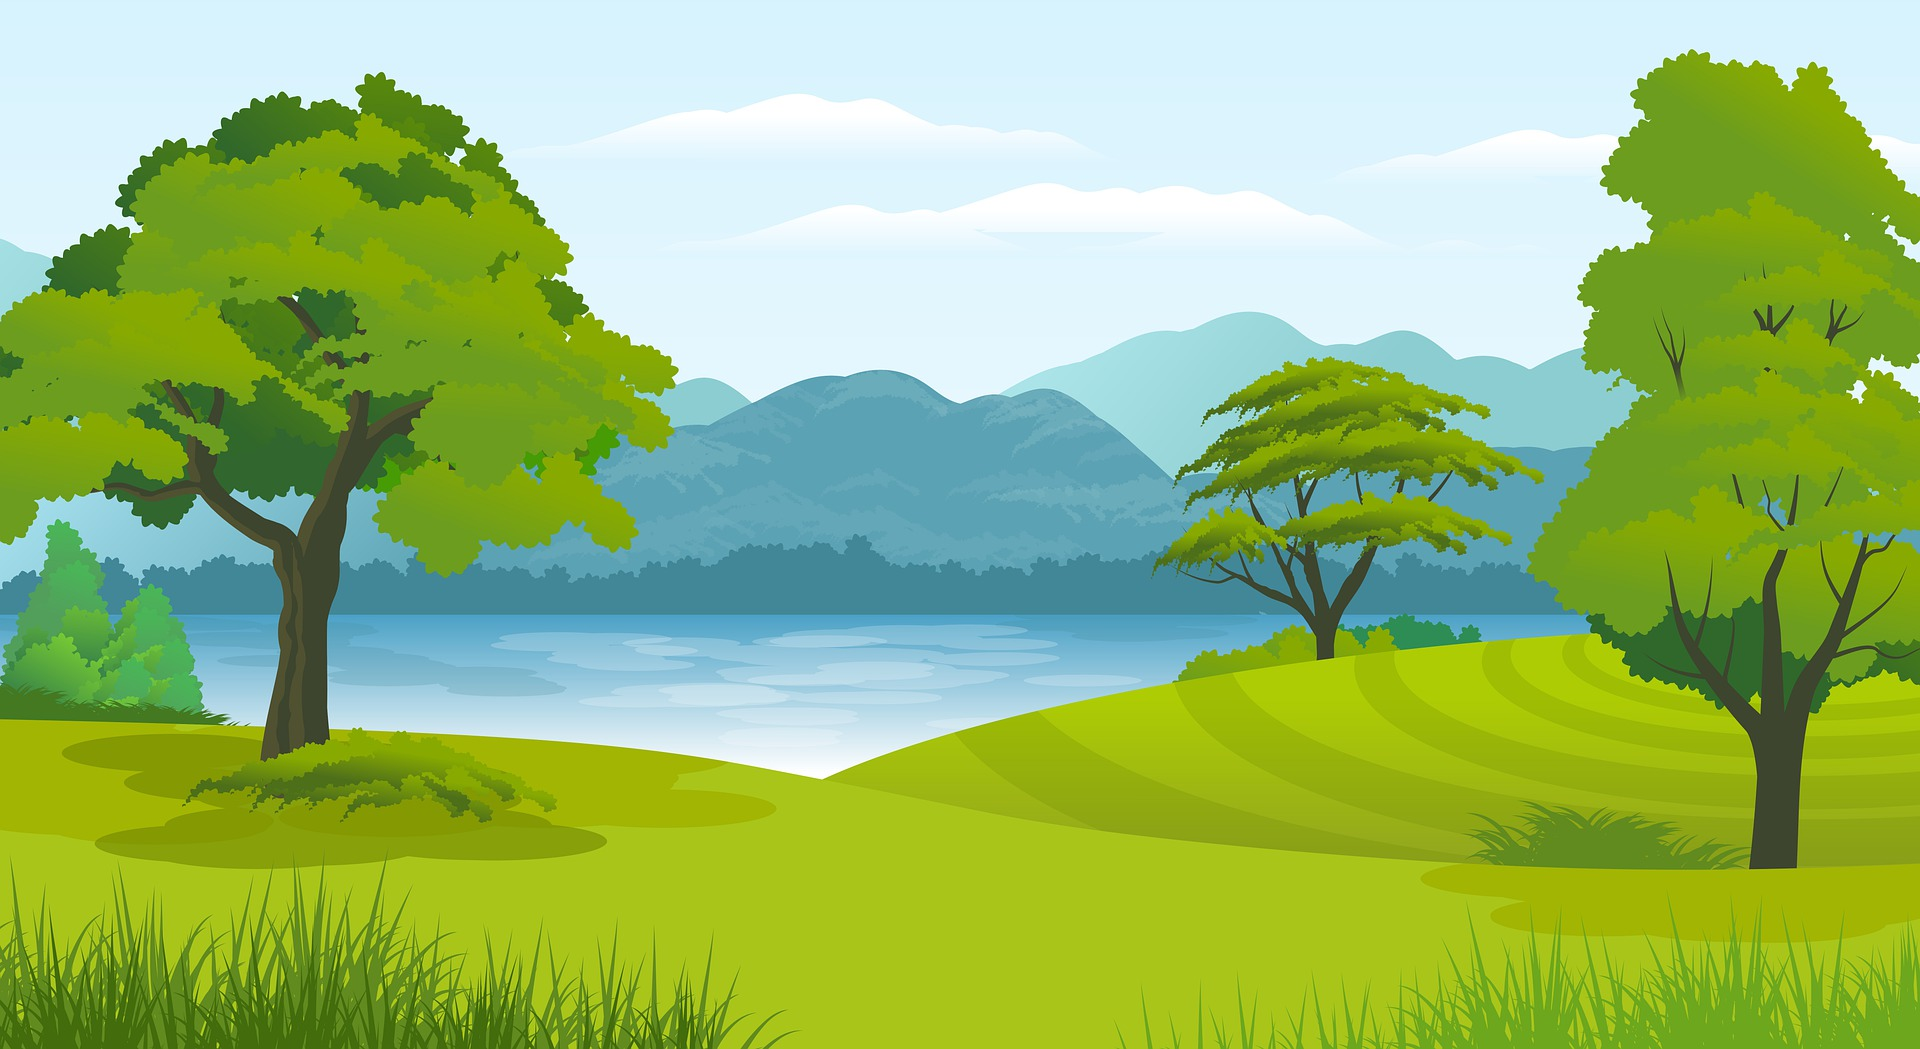
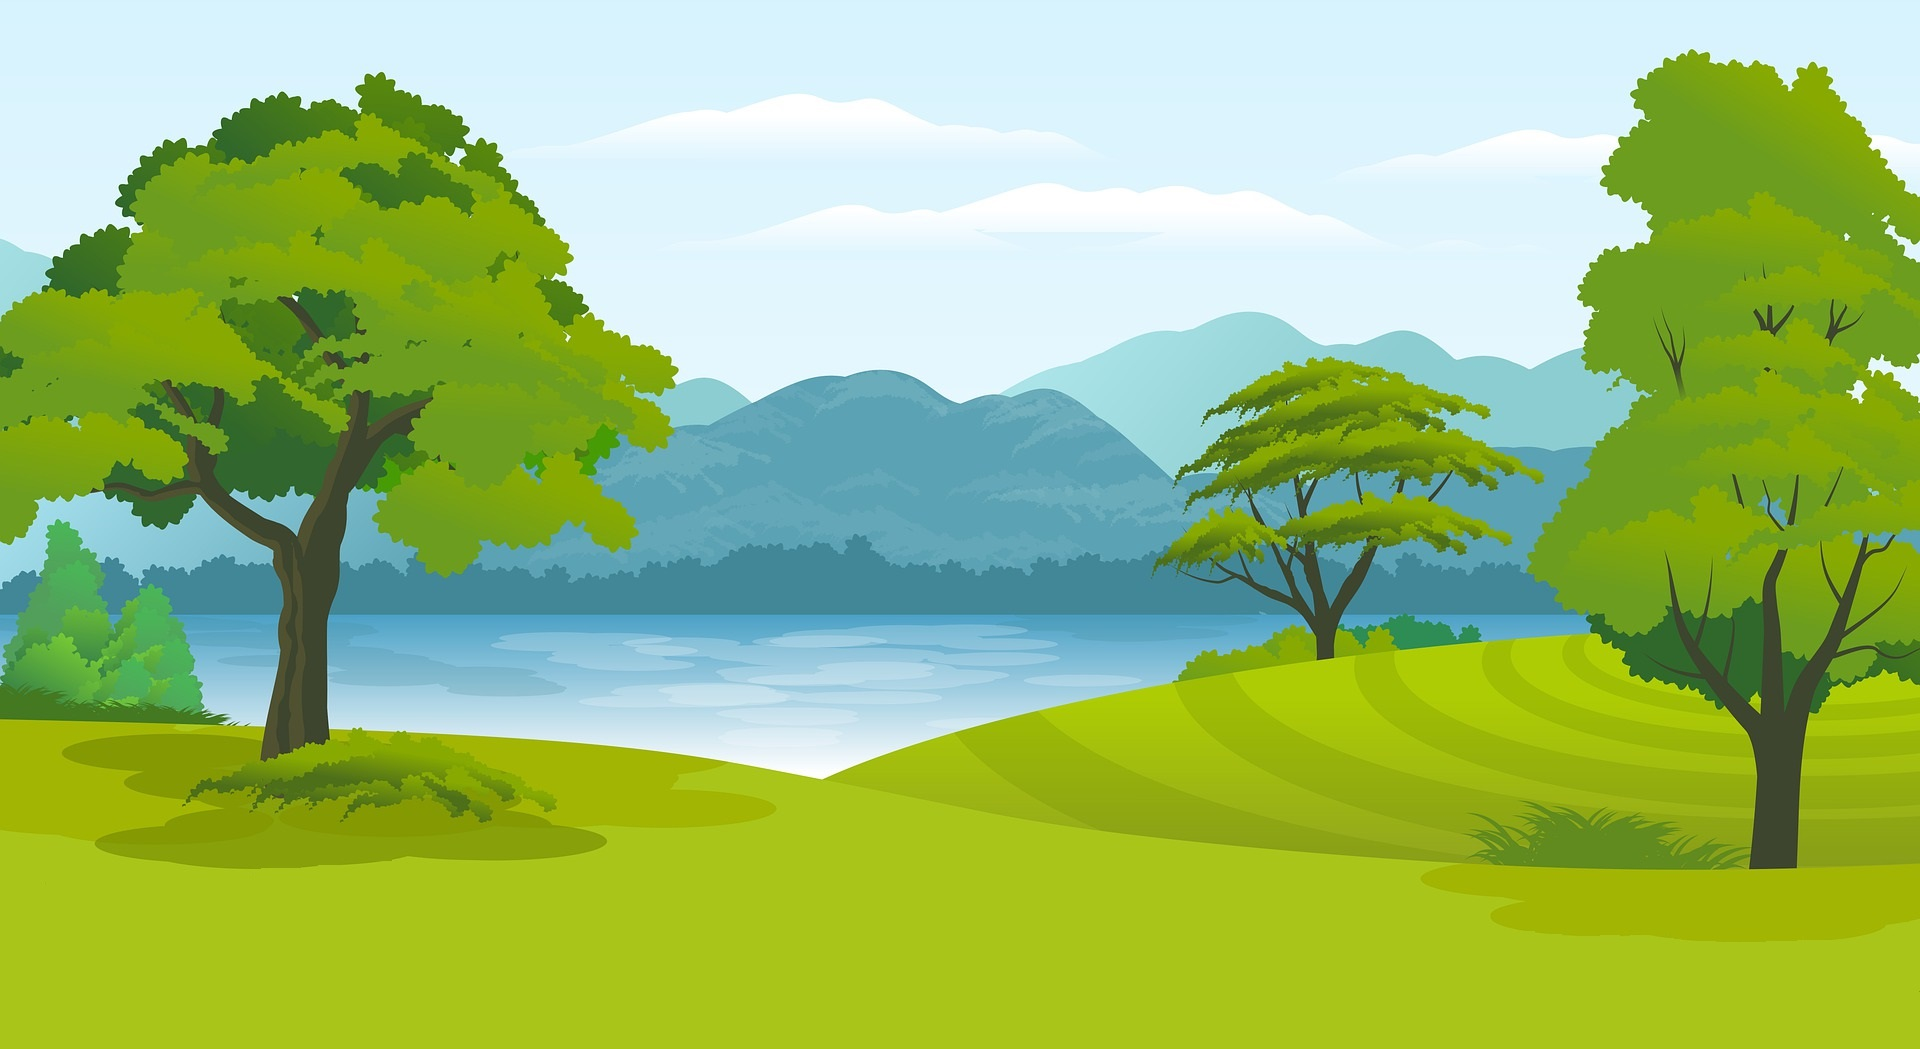
Criação da pagina de game over/ajustes no cenário

Changed region(s): [[0.0, 0.8236, 0.4062, 1.0], [0.5938, 0.8847, 1.0, 1.0]]

diff --git a/JavaScript/app_game_mata_mosquito/fim_de_jogo.html b/JavaScript/app_game_mata_mosquito/fim_de_jogo.html
@@ -1,0 +1,40 @@
+<!DOCTYPE html>
+<html lang="en">
+    <head>
+        <meta charset="UTF-8" />
+        <meta name="viewport" content="width=device-width, initial-scale=1.0" />
+        <title>Game Over</title>
+        <link
+            rel="stylesheet"
+            href="https://stackpath.bootstrapcdn.com/bootstrap/4.1.3/css/bootstrap.min.css"
+            integrity="sha384-MCw98/SFnGE8fJT3GXwEOngsV7Zt27NXFoaoApmYm81iuXoPkFOJwJ8ERdknLPMO"
+            crossorigin="anonymous"
+        />
+        <link rel="stylesheet" href="css/estilo.css" />
+    </head>
+    <body>
+        <div class="container">
+            <div class="row">
+                <div class="col">
+                    <div class="d-flex justify-content-center">
+                        <img id="game-over" src="img/game_over.png" />
+                    </div>
+                </div>
+            </div>
+
+            <div class="row">
+                <div class="col">
+                    <div class="d-flex justify-content-center mt-3">
+                        <button
+                            onclick="window.location.href = 'app.html'"
+                            type="button"
+                            class="btn btn-dark btn-lg"
+                        >
+                            Reiniciar
+                        </button>
+                    </div>
+                </div>
+            </div>
+        </div>
+    </body>
+</html>

diff --git a/JavaScript/app_game_mata_mosquito/css/estilo.css b/JavaScript/app_game_mata_mosquito/css/estilo.css
@@ -10,6 +10,21 @@ body {
         background-repeat: no-repeat;
         background-size: 100%;
     }
+    #game-over {
+        max-width: 250px;
+        max-height: 200px;
+        width: auto;
+        height: auto;
+        background: rgba(0, 0, 0, 0.4);
+        border-radius: 90%;
+    }
+}
+
+@media (min-width: 768px) {
+    #game-over {
+        background: rgba(0, 0, 0, 0.4);
+        border-radius: 90%;
+    }
 }
 
 .mosca1 {

diff --git a/JavaScript/app_game_mata_mosquito/js/jogo.js b/JavaScript/app_game_mata_mosquito/js/jogo.js
@@ -14,6 +14,7 @@ function posicaoRandomica() {
         document.getElementById("mosca").remove();
 
         if (vidas > 3) {
+            window.location.href = "fim_de_jogo.html";
         } else {
             document.getElementById("v" + vidas).src = "img/coracao_vazio.png";
             vidas++;
